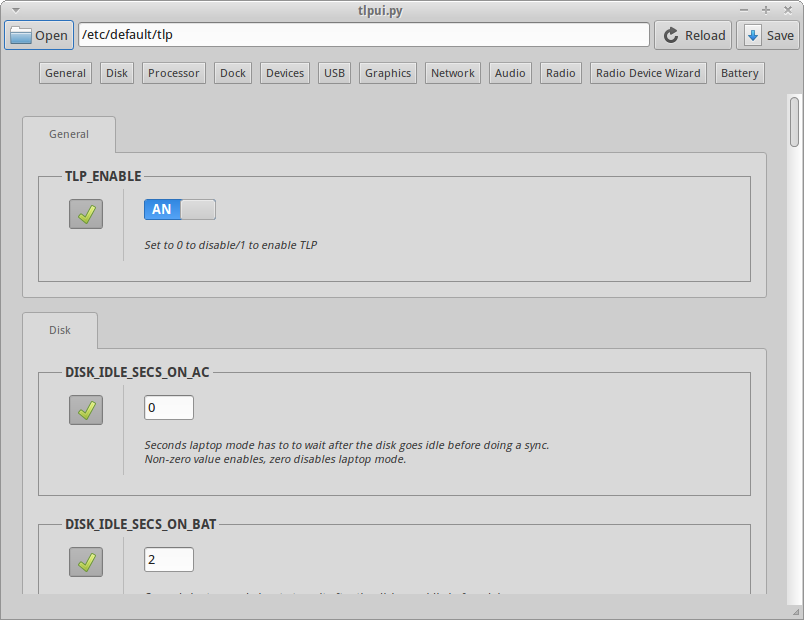
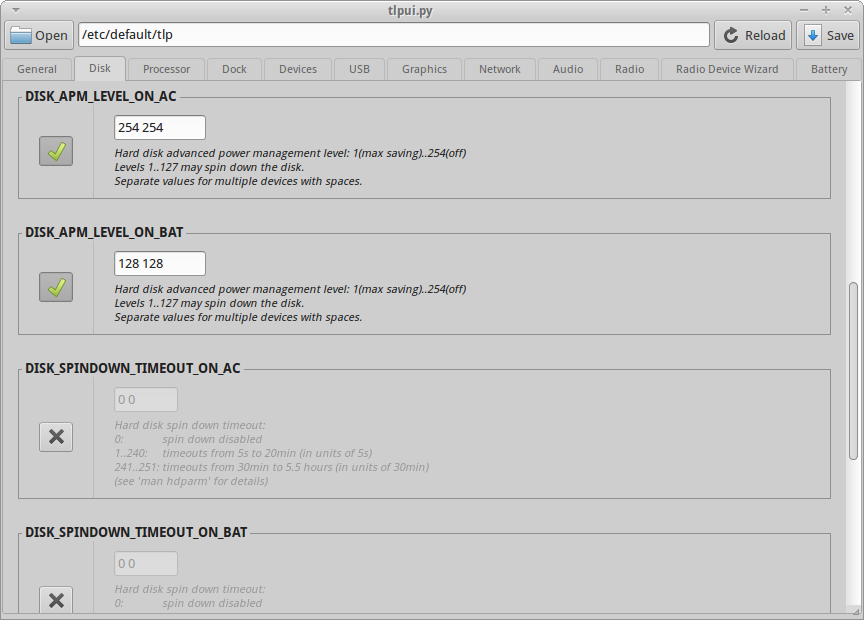
* Updated UI - Switched to Gtk.Notebook category view * Readme updated * Screenshot updated

diff --git a/styles.css b/styles.css
@@ -1,16 +1,7 @@
-#anchorButton {
-    font-size: 85%;
-    border-radius: 0px;
-}
-
 .frame {
     border-radius: 0px;
-    padding: 20px;
 }
 
-#categoriesNotebook {
-    padding-top: 10px;
-    padding-left: 15px;
-    padding-right: 15px;
-    padding-bottom: 10px;
+#categoryViewport {
+    background-color: @theme_bg_color;
 }

diff --git a/ui.py b/ui.py
@@ -32,7 +32,9 @@ def create_config_ui_box(tlpobject, objecttype, objectvalues, doc) -> Gtk.Frame:
 
     # on/off state
     toggle = gtktoggle.create_toggle_button(tlpobject, tlpconfigbox)
-    tlpswitchbox.pack_start(toggle, False, False, 10)
+    tlpswitchbox.pack_start(toggle, False, False, 0)
+    tlpswitchbox.set_halign(Gtk.Align.CENTER)
+    tlpswitchbox.set_valign(Gtk.Align.CENTER)
 
     # vertical separator
     separator = Gtk.VSeparator()
@@ -60,14 +62,14 @@ def create_config_ui_box(tlpobject, objecttype, objectvalues, doc) -> Gtk.Frame:
     doclabel = Gtk.Label('<i><small>' + doc + '</small></i>', xalign=0)
     doclabel.set_line_wrap(True)
     doclabel.set_use_markup(True)
-    doclabel.set_margin_bottom(5)
+    doclabel.set_margin_bottom(10)
 
     tlpconfigbox.pack_start(configuiobject, True, True, 0)
     tlpconfigbox.pack_start(doclabel, True, True, 0)
 
-    tlpuiobject.pack_start(tlpswitchbox, False, False, 10)
-    tlpuiobject.pack_start(separator, False, False, 10)
-    tlpuiobject.pack_start(tlpconfigbox, True, True, 10)
+    tlpuiobject.pack_start(tlpswitchbox, False, False, 20)
+    tlpuiobject.pack_start(separator, False, False, 0)
+    tlpuiobject.pack_start(tlpconfigbox, True, True, 20)
     tlpconfigframe.add(tlpuiobject)
 
     return tlpconfigframe
@@ -93,20 +95,16 @@ def create_tlp_ui_categories(tlpconfig) -> OrderedDict:
 
             for item in tlpconfig:
                 configid = item.get_name()
-                if  configid == id:
+                if configid == id:
                     configbox = create_config_ui_box(item, type, values, description)
-                    categorybox.pack_start(configbox, True, True, 5)
+                    configbox.set_margin_left(15)
+                    configbox.set_margin_right(15)
+                    configbox.set_margin_top(15)
+                    categorybox.pack_start(configbox, False, False, 0)
 
         propertyobjects[label] = categorybox
 
     return propertyobjects
-
-
-def scroll_to_category(self, scroll, widget):
-    position = scroll.get_vadjustment()
-    widget_positions = widget.translate_coordinates(scroll, 0, 0)
-    position.set_value(position.get_value() + widget_positions[1])
-    scroll.set_vadjustment(position)
 
 
 def open_file_chooser(self, fileentry):
@@ -158,7 +156,6 @@ def save_tlp_config(self, filenamepointer, tlpconfig, window):
     dialog.destroy()
 
 
-
 def create_settings_box(window, configpath, tlp_config_items):
     fileentry = Gtk.Entry()
     fileentry.set_editable(False)
@@ -183,36 +180,27 @@ def create_settings_box(window, configpath, tlp_config_items):
 
 
 def create_config_box(tlp_config_items) -> Gtk.Box:
-    scroll = Gtk.ScrolledWindow()
-    anchorbuttonbox = Gtk.Box(orientation=Gtk.Orientation.HORIZONTAL, spacing=4)
-    anchorbuttonbox.set_halign(Gtk.Align.CENTER)
-    configbox = Gtk.Box(orientation=Gtk.Orientation.VERTICAL, spacing=10)
+    notebook = Gtk.Notebook()
+    notebook.set_tab_pos(Gtk.PositionType.TOP)
 
     ui_categories = create_tlp_ui_categories(tlp_config_items)
-    for key,value in ui_categories.items():
-        label = key
+    for label, configitem in ui_categories.items():
         categorylabel = Gtk.Label('<small>' + label + '</small>')
         categorylabel.set_use_markup(True)
         categorylabel.set_margin_left(10)
         categorylabel.set_margin_right(10)
 
-        button = Gtk.Button(label)
-        button.set_name('anchorButton')
-        button.connect('clicked', scroll_to_category, scroll, categorylabel)
+        viewport = Gtk.Viewport()
+        viewport.set_name('categoryViewport')
+        viewport.add(configitem)
 
-        notebook = Gtk.Notebook()
-        notebook.set_name('categoriesNotebook')
-        notebook.set_tab_pos(Gtk.PositionType.TOP)
-        notebook.append_page(value, categorylabel)
+        scroll = Gtk.ScrolledWindow()
+        scroll.add(viewport)
 
-        anchorbuttonbox.pack_start(button, False, False, 2)
-        configbox.pack_start(notebook, False, False, 2)
-
-    scroll.add(configbox)
+        notebook.append_page(scroll, categorylabel)
 
     containerbox = Gtk.Box(orientation=Gtk.Orientation.VERTICAL, spacing=0)
-    containerbox.pack_start(anchorbuttonbox, False, False, 8)
-    containerbox.pack_start(scroll, True, True, 2)
+    containerbox.pack_start(notebook, True, True, 2)
 
     return containerbox
 

diff --git a/README.md b/README.md
@@ -30,10 +30,11 @@ To be done:
 * Get sudo/root permission on demand (e.g. zenity dialog)
 * Add/optimize value definitions
 * Localization
-* Jump to latest position after reload/save
+* Jump to last active tab after reload/save
 * Refactor Python code
 * UI improvements for better usability
 * Add tlp-stat output
+* Add debian package build script
 
 
 ![Screenshot 02.05.2015](https://raw.githubusercontent.com/d4nj1/TLPUI/master/screenshot.png)
